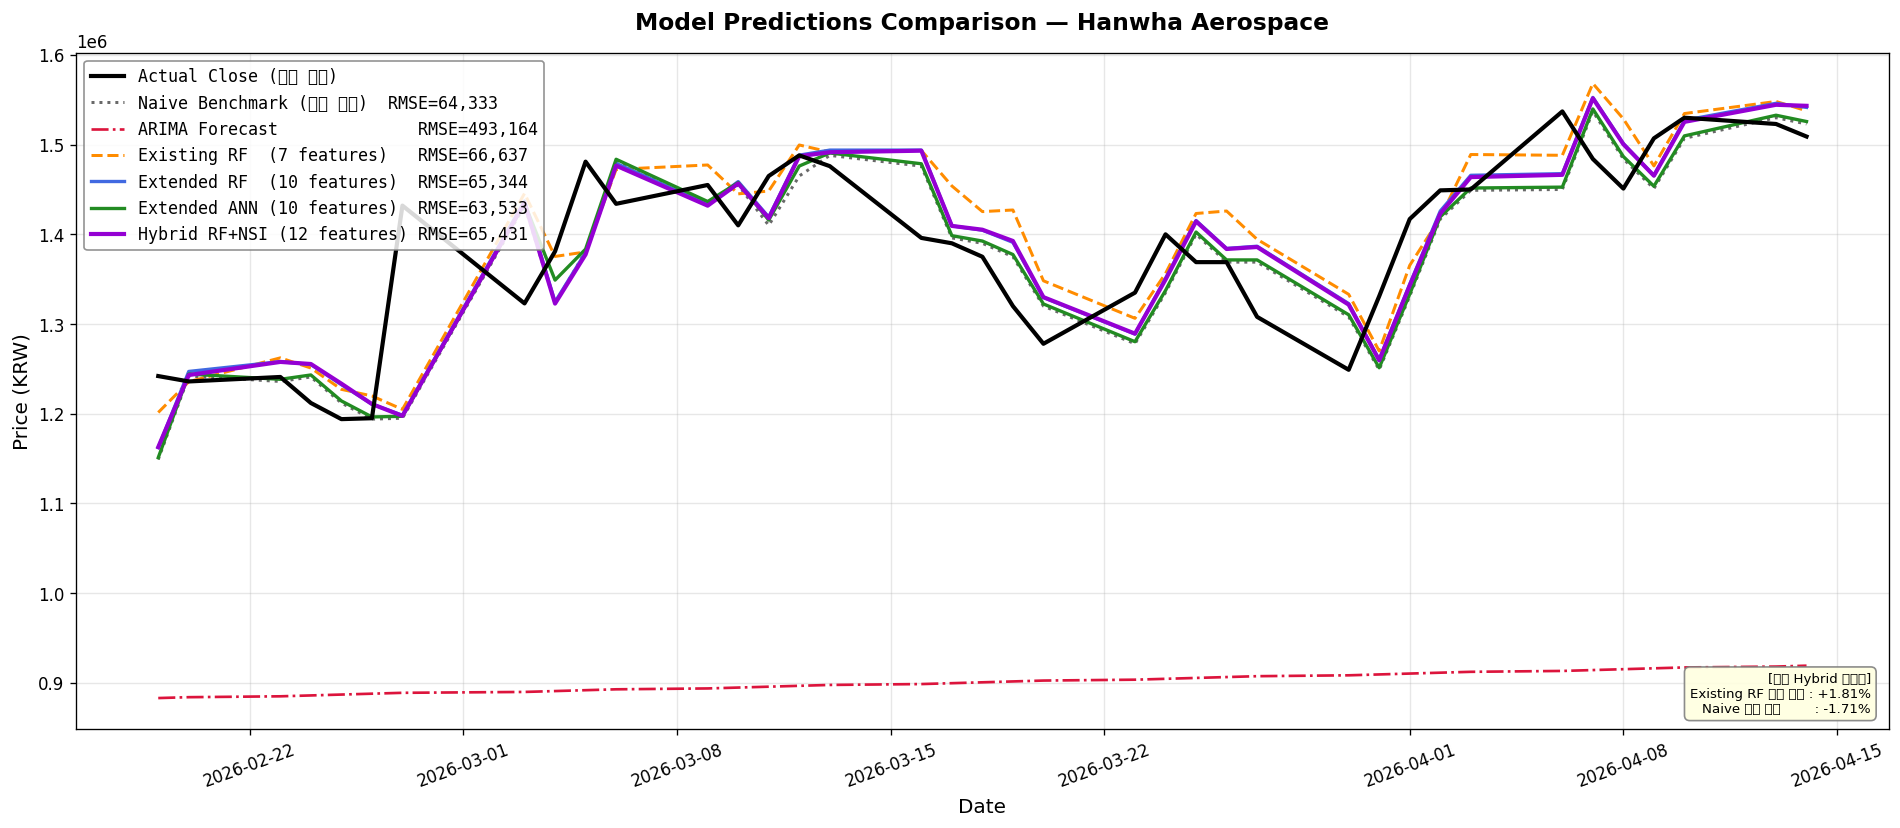
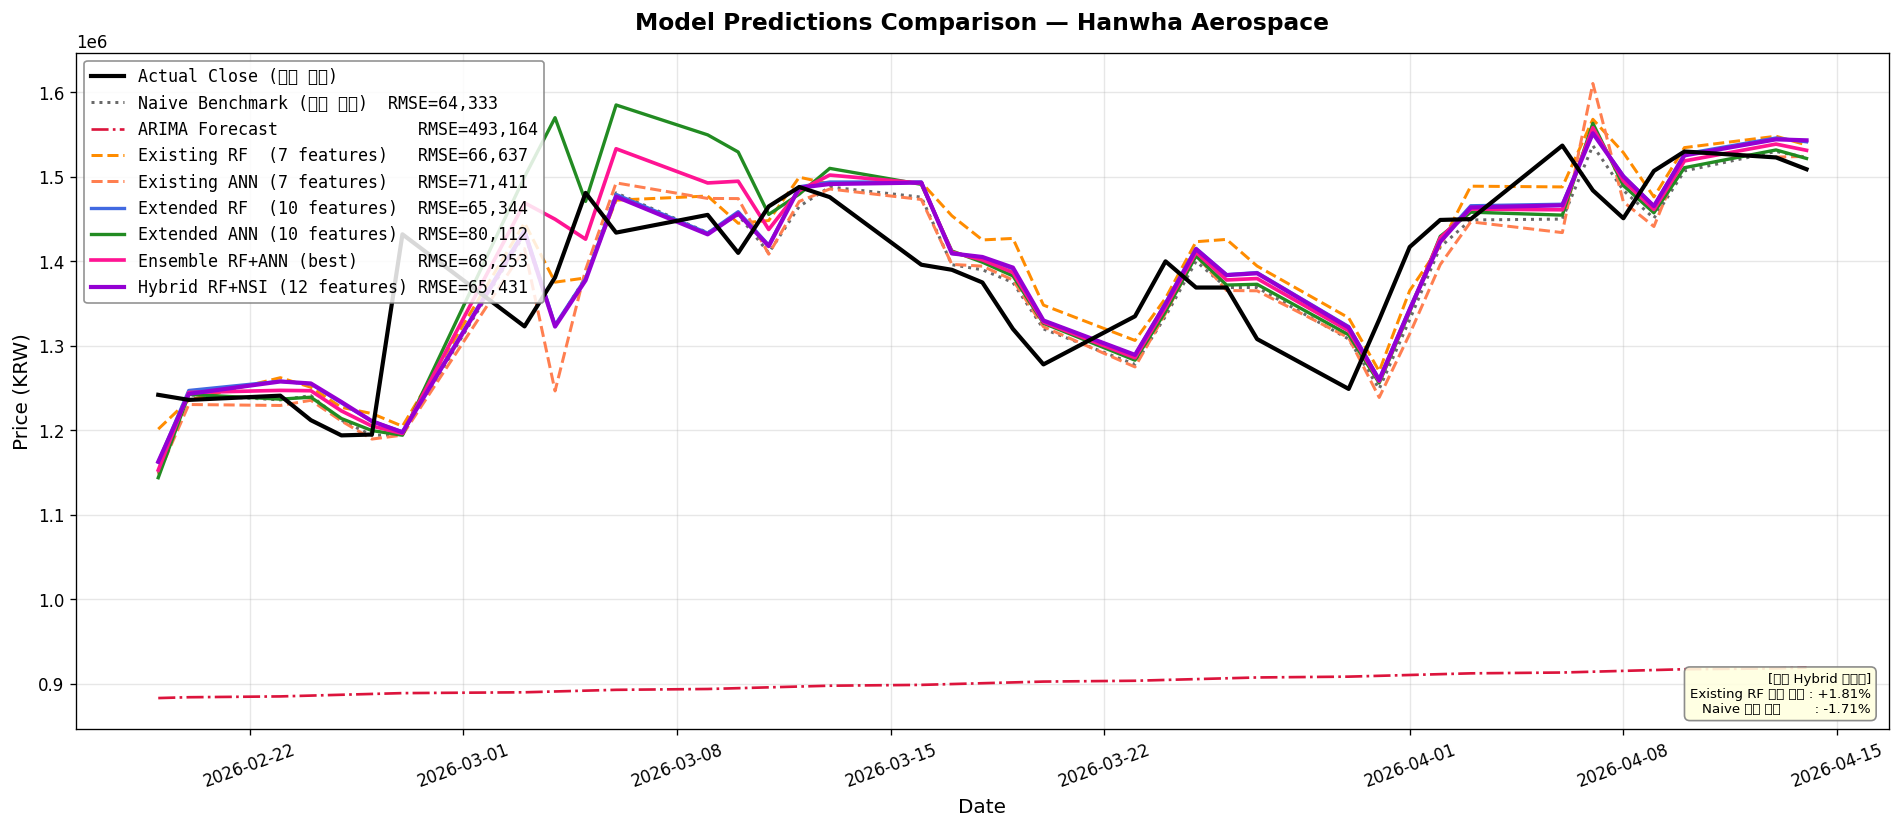
feat: 앙상블 모델 추가 및 최적 선택 기능 구현

diff --git a/run_hybrid_final_comparison.py b/run_hybrid_final_comparison.py
@@ -236,7 +236,61 @@ def run_comparison_pipeline(name: str, path: str, short_w: dict, long_w: dict, n
     results_return["Extended ANN"] = ann_ext_ret
     results_price["Extended ANN"]  = ret_to_price(ann_ext_ret)
 
-    # 6. Hybrid Sentiment RF (10 features + NSI_short + NSI_long)
+    # 6. Ensemble: Extended RF + Extended ANN (3가지 방식 자동 비교 → 최적 선택)
+    # --- 방식 A: 단순 평균 (Simple Average) ---
+    ens_simple_ret  = (rf_ext_ret + ann_ext_ret) / 2.0
+
+    # --- 방식 B: RMSE 역수 기반 가중 평균 (Weighted Average) ---
+    #   val 세트에서 각 모델 성능 측정 후 RMSE가 낮은 모델에 높은 가중치 부여
+    y_val_np = y_val_r.values
+    rf_val_ret  = rf_ext.predict(X_val_ext)
+    ann_val_ret = predict_ai_model(ann_ext, X_val_ext)
+    rmse_rf_val  = np.sqrt(np.mean((y_val_np - rf_val_ret) ** 2))
+    rmse_ann_val = np.sqrt(np.mean((y_val_np - ann_val_ret) ** 2))
+    w_rf  = 1.0 / (rmse_rf_val  + 1e-9)
+    w_ann = 1.0 / (rmse_ann_val + 1e-9)
+    w_total = w_rf + w_ann
+    ens_weighted_ret = (w_rf * rf_ext_ret + w_ann * ann_ext_ret) / w_total
+
+    # --- 방식 C: 스태킹 (Stacking) ---
+    #   Train: RF + ANN val 예측값을 meta-feature로 LinearRegression 학습
+    #   Test:  RF + ANN test 예측값을 meta-feature로 최종 예측
+    from sklearn.linear_model import Ridge
+    meta_X_train = np.column_stack([rf_val_ret, ann_val_ret])
+    meta_y_train = y_val_np
+    meta_model = Ridge(alpha=1.0)
+    meta_model.fit(meta_X_train, meta_y_train)
+    meta_X_test    = np.column_stack([rf_ext_ret, ann_ext_ret])
+    ens_stacking_ret = meta_model.predict(meta_X_test)
+
+    # --- 3가지 방식 val RMSE 비교 → 가장 낮은 방식 자동 선택 ---
+    ens_candidates = {
+        "Ensemble (Simple Avg)"   : ens_simple_ret,
+        "Ensemble (Weighted Avg)" : ens_weighted_ret,
+        "Ensemble (Stacking)"     : ens_stacking_ret,
+    }
+    # val 세트에서 비교 (수익률 기준)
+    val_rf_pred  = rf_ext.predict(X_val_ext)
+    val_ann_pred = predict_ai_model(ann_ext, X_val_ext)
+    ens_val_candidates = {
+        "Ensemble (Simple Avg)"   : (val_rf_pred + val_ann_pred) / 2.0,
+        "Ensemble (Weighted Avg)" : (w_rf * val_rf_pred + w_ann * val_ann_pred) / w_total,
+        "Ensemble (Stacking)"     : meta_model.predict(np.column_stack([val_rf_pred, val_ann_pred])),
+    }
+    best_ens_name = min(
+        ens_val_candidates,
+        key=lambda k: np.sqrt(np.mean((y_val_np - ens_val_candidates[k]) ** 2))
+    )
+    best_ens_ret = ens_candidates[best_ens_name]
+    print(f"  [앙상블 자동 선택] 최적 방식 = {best_ens_name}")
+    print(f"    Simple Avg   val RMSE: {np.sqrt(np.mean((y_val_np - ens_val_candidates['Ensemble (Simple Avg)'])**2)):.6f}")
+    print(f"    Weighted Avg val RMSE: {np.sqrt(np.mean((y_val_np - ens_val_candidates['Ensemble (Weighted Avg)'])**2)):.6f}")
+    print(f"    Stacking     val RMSE: {np.sqrt(np.mean((y_val_np - ens_val_candidates['Ensemble (Stacking)'])**2)):.6f}")
+
+    results_return["Ensemble RF+ANN"] = best_ens_ret
+    results_price["Ensemble RF+ANN"]  = ret_to_price(best_ens_ret)
+
+    # 7. Hybrid Sentiment RF (10 features + NSI_short + NSI_long)
     # NSI 결합 피처 정의
     HYBRID_FEATURES = EXTENDED_FEATURES + ["nsi_short", "nsi_long"]
     # 누락 NSI 100 보정
@@ -287,7 +341,9 @@ def run_comparison_pipeline(name: str, path: str, short_w: dict, long_w: dict, n
     ax.plot(test_dates, results_price["Extended RF"], label=f"Extended RF  (10 features)  RMSE={rmse_dict['Extended RF']:,.0f}", color="royalblue", linestyle="-", linewidth=2.0)
     # 7. Extended ANN
     ax.plot(test_dates, results_price["Extended ANN"], label=f"Extended ANN (10 features)  RMSE={rmse_dict['Extended ANN']:,.0f}", color="forestgreen", linestyle="-", linewidth=2.0)
-    # 8. 최종 Hybrid RF+NSI (두껍고 눈에 띄는 퍼플 실선)
+    # 8. Ensemble RF+ANN (자동 선택된 최적 앙상블)
+    ax.plot(test_dates, results_price["Ensemble RF+ANN"], label=f"Ensemble RF+ANN (best)      RMSE={rmse_dict['Ensemble RF+ANN']:,.0f}", color="deeppink", linestyle="-", linewidth=2.2, zorder=4)
+    # 9. 최종 Hybrid RF+NSI (두껍고 눈에 띄는 퍼플 실선)
     ax.plot(test_dates, results_price["Hybrid RF+NSI"], label=f"Hybrid RF+NSI (12 features) RMSE={rmse_dict['Hybrid RF+NSI']:,.0f}", color="darkviolet", linestyle="-", linewidth=2.5, zorder=4)
 
     ax.set_title(f"Model Predictions Comparison — {name.replace('_', ' ').title()}", fontsize=14, fontweight="bold", pad=14)
